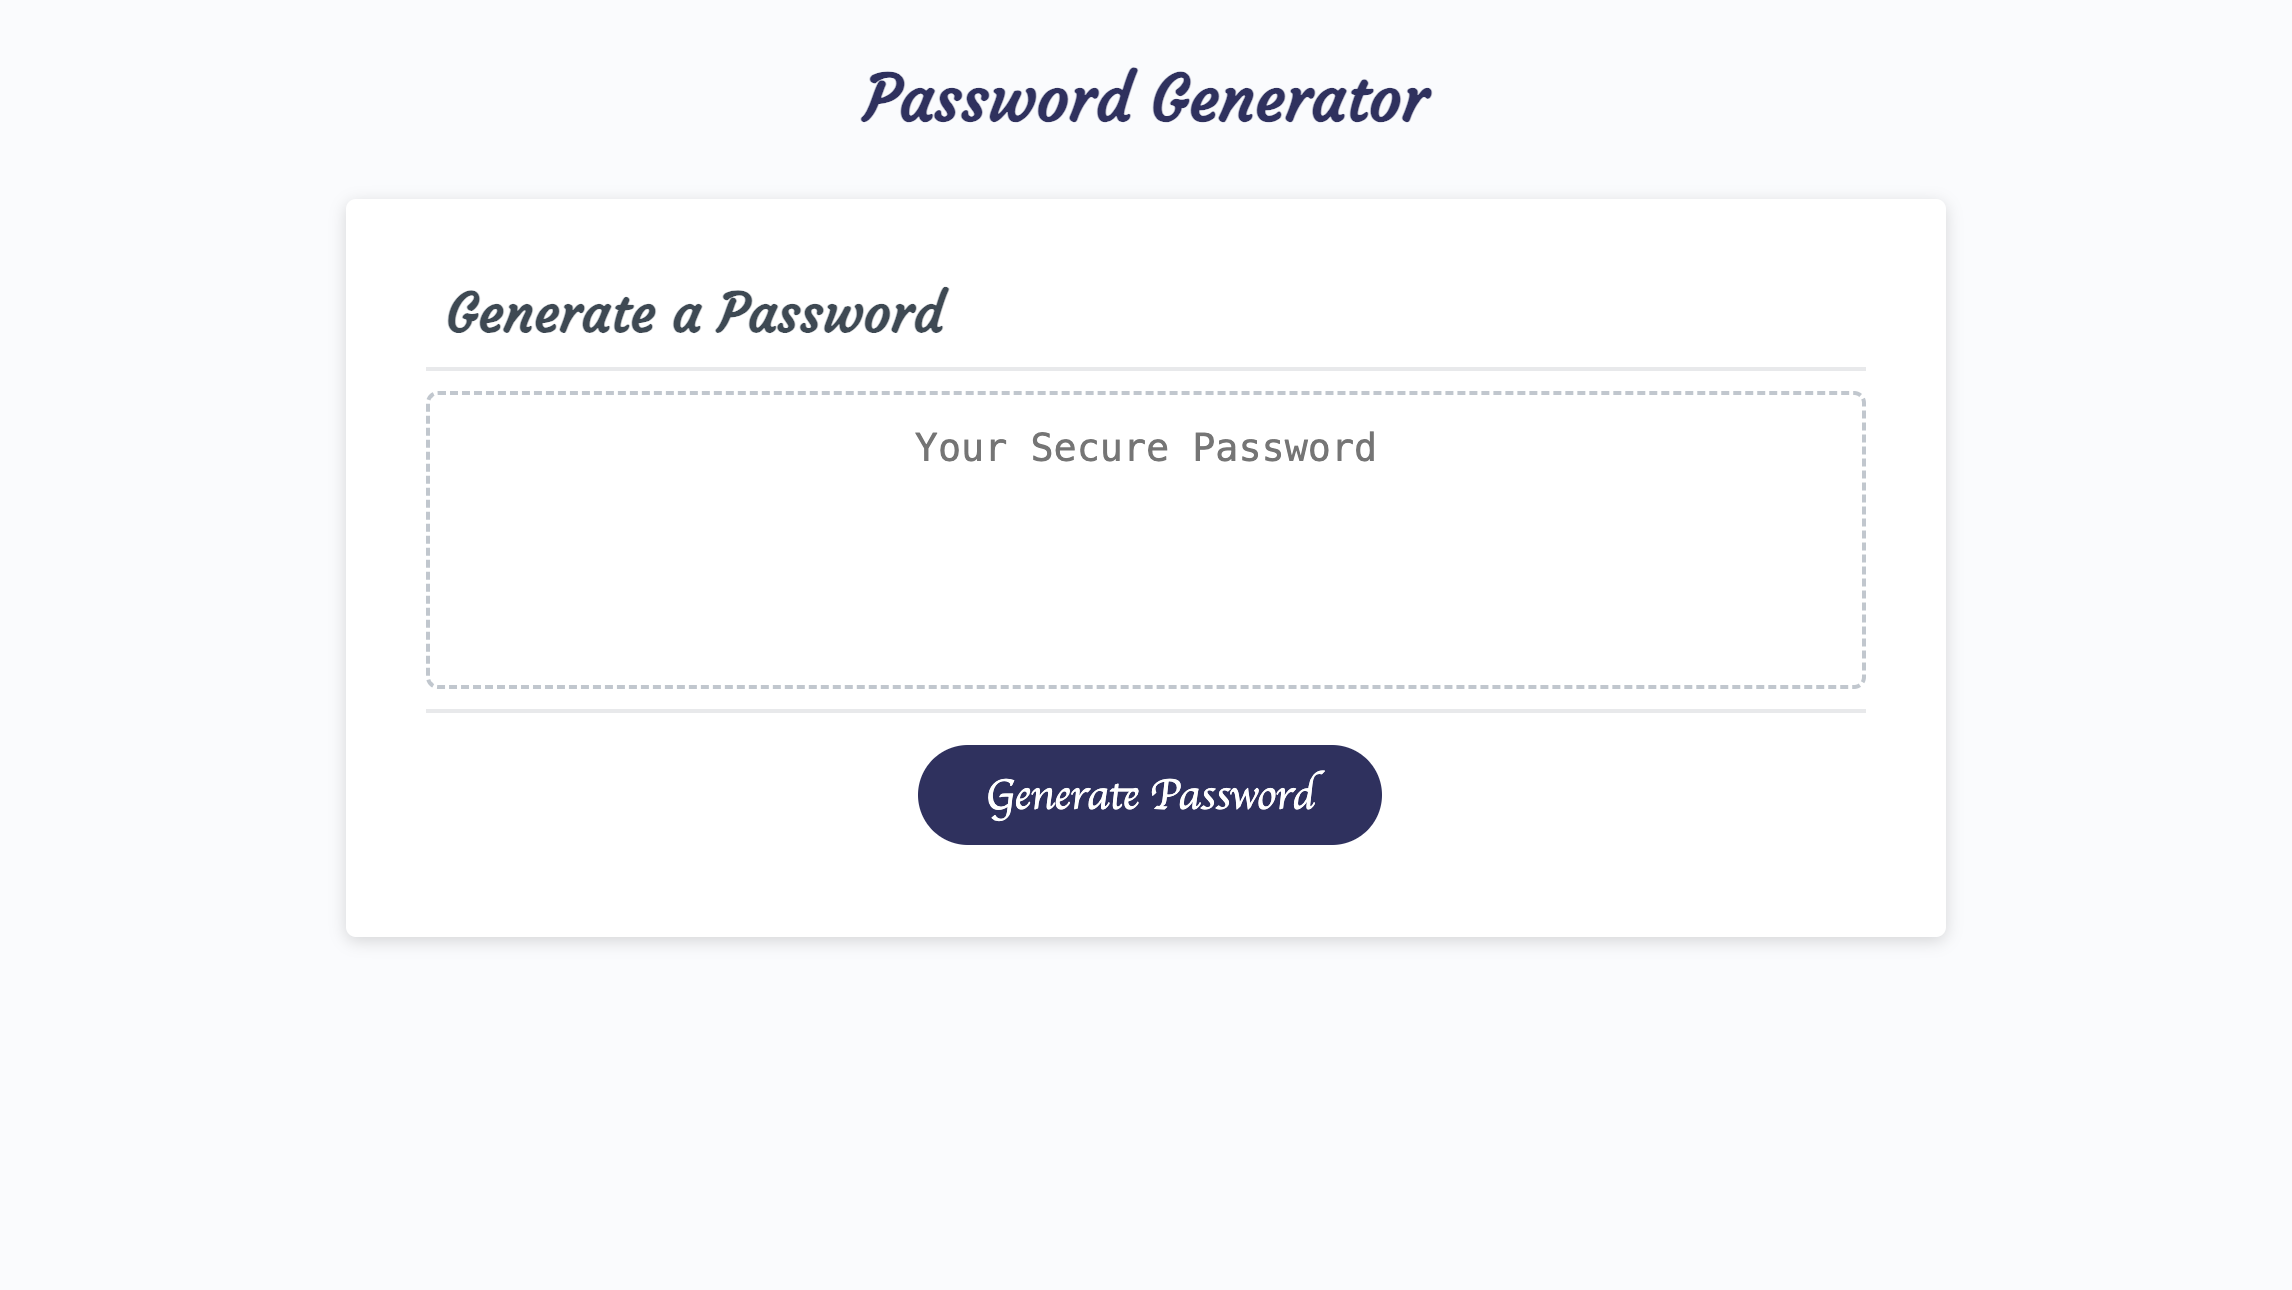
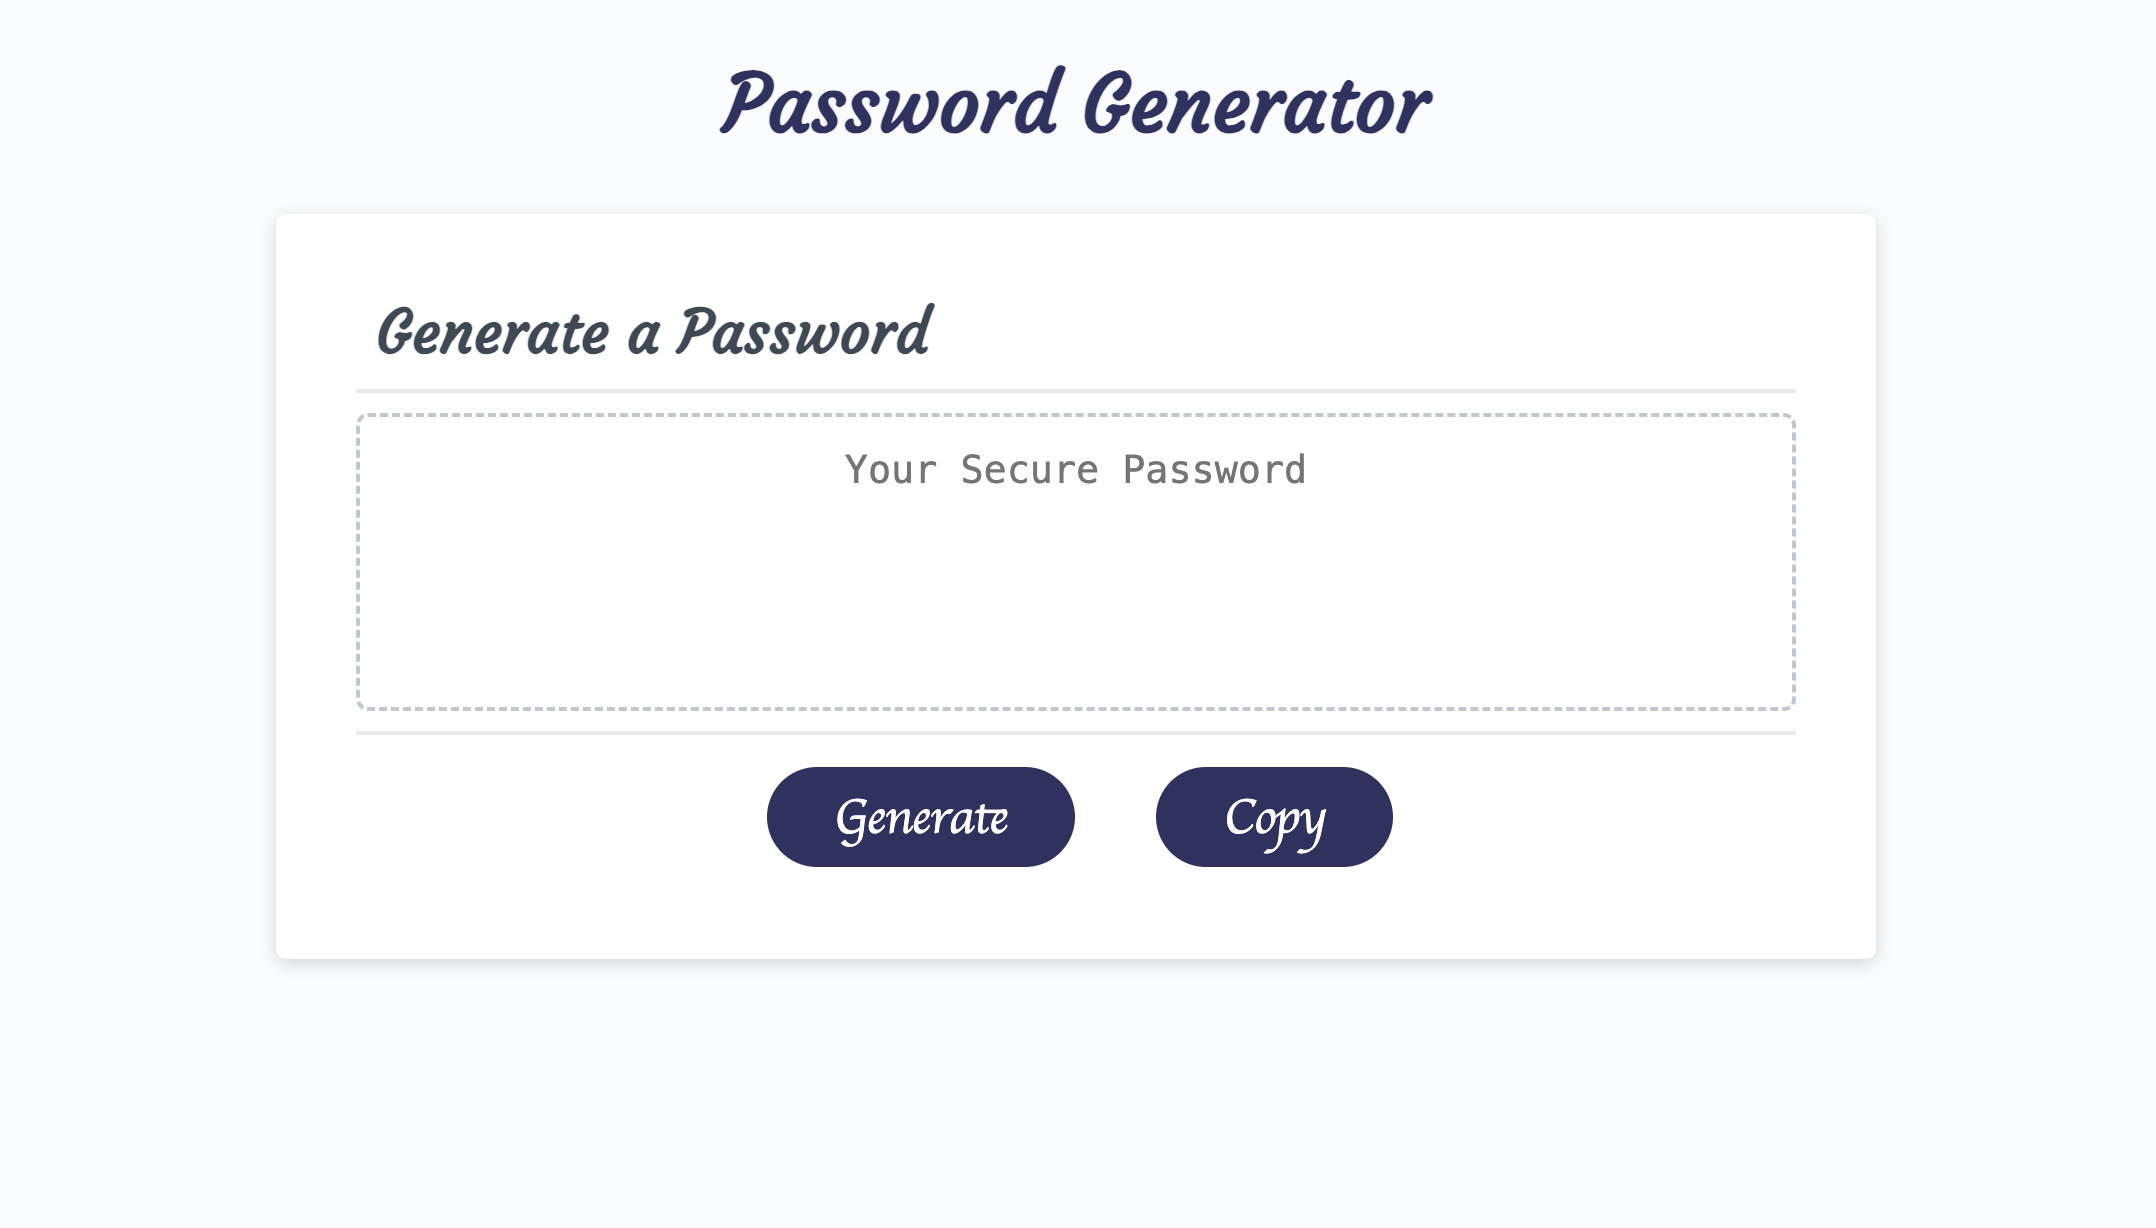
made more updates to portfolio page

diff --git a/assets/password-generator/password-script.js b/assets/password-generator/password-script.js
@@ -13,9 +13,9 @@ const upperCasedCharacters = "ABCDEFGHIJKLMNOPQRSTUVWXYZ";
 // Add event listener to generate button
 document.getElementById('generate').addEventListener('click', function() {
   // Ask user for the length of password
-  let length = prompt("How many characters will your password be? Enter a number between 8 and 24");
-    if (isNaN(length) || length < 8 || length > 24) {
-        alert("Please enter a valid password length between 8 and 24.");
+  let length = prompt("How many characters will your password be? Enter a number between 8 and 128");
+    if (isNaN(length) || length < 8 || length > 128) {
+        alert("Please enter a valid password length between 8 and 128.");
         return;
   }
   // Ask user to specify other preferences
@@ -46,4 +46,10 @@ function generatePassword(length, includeUpperCase, includeLowerCase, includeNum
     password += allowedChars[randomIndex];
     }
   return password;
+}
+
+function copyPassword() {
+  password.select();
+  document.execCommand("copy")
+  alert("Copied to clipboard");
 }

diff --git a/assets/password-generator/password-stylesheet.css b/assets/password-generator/password-stylesheet.css
@@ -25,6 +25,14 @@ h1, h2 {
   margin: 10px;
 }
 
+h1 {
+  font-size: 40px;
+}
+
+h2 {
+  font-size: 30px;
+}
+
 h1, h3 {
   color: var(--blue);
 }
@@ -97,7 +105,7 @@ header {
   color: hsl(0, 0%, 100%);
   display: inline-block;
   font-family: cursive;
-  font-size: 22px;
+  font-size: 25px;
   line-height: 22px;
   margin: 16px 16px 16px 20px;
   padding: 14px 34px;

diff --git a/index.html b/index.html
@@ -18,7 +18,7 @@
           <a href="#about-me">About Me</a>
           <a href="#projects">Projects</a>
           <a href="#contact-me">Contact</a>
-          <a href="./assets/Resume/Eze_Ishionwu_Resume.pdf" target="_blank">Resume</a>
+          <a href="./assets/resume/Eze_Ishionwu_Resume.pdf" target="_blank">Resume</a>
         </div>
       </header>
 

diff --git a/assets/password-generator/password-generator.html b/assets/password-generator/password-generator.html
@@ -28,7 +28,8 @@
           ></textarea>
         </div>
         <div class="card-footer">
-          <button id="generate" class="btn">Generate Password</button>
+          <button id="generate" class="btn">Generate</button>
+          <button onclick="copyPassword()" class="btn">Copy</button>
         </div>
       </div>
     </div>
